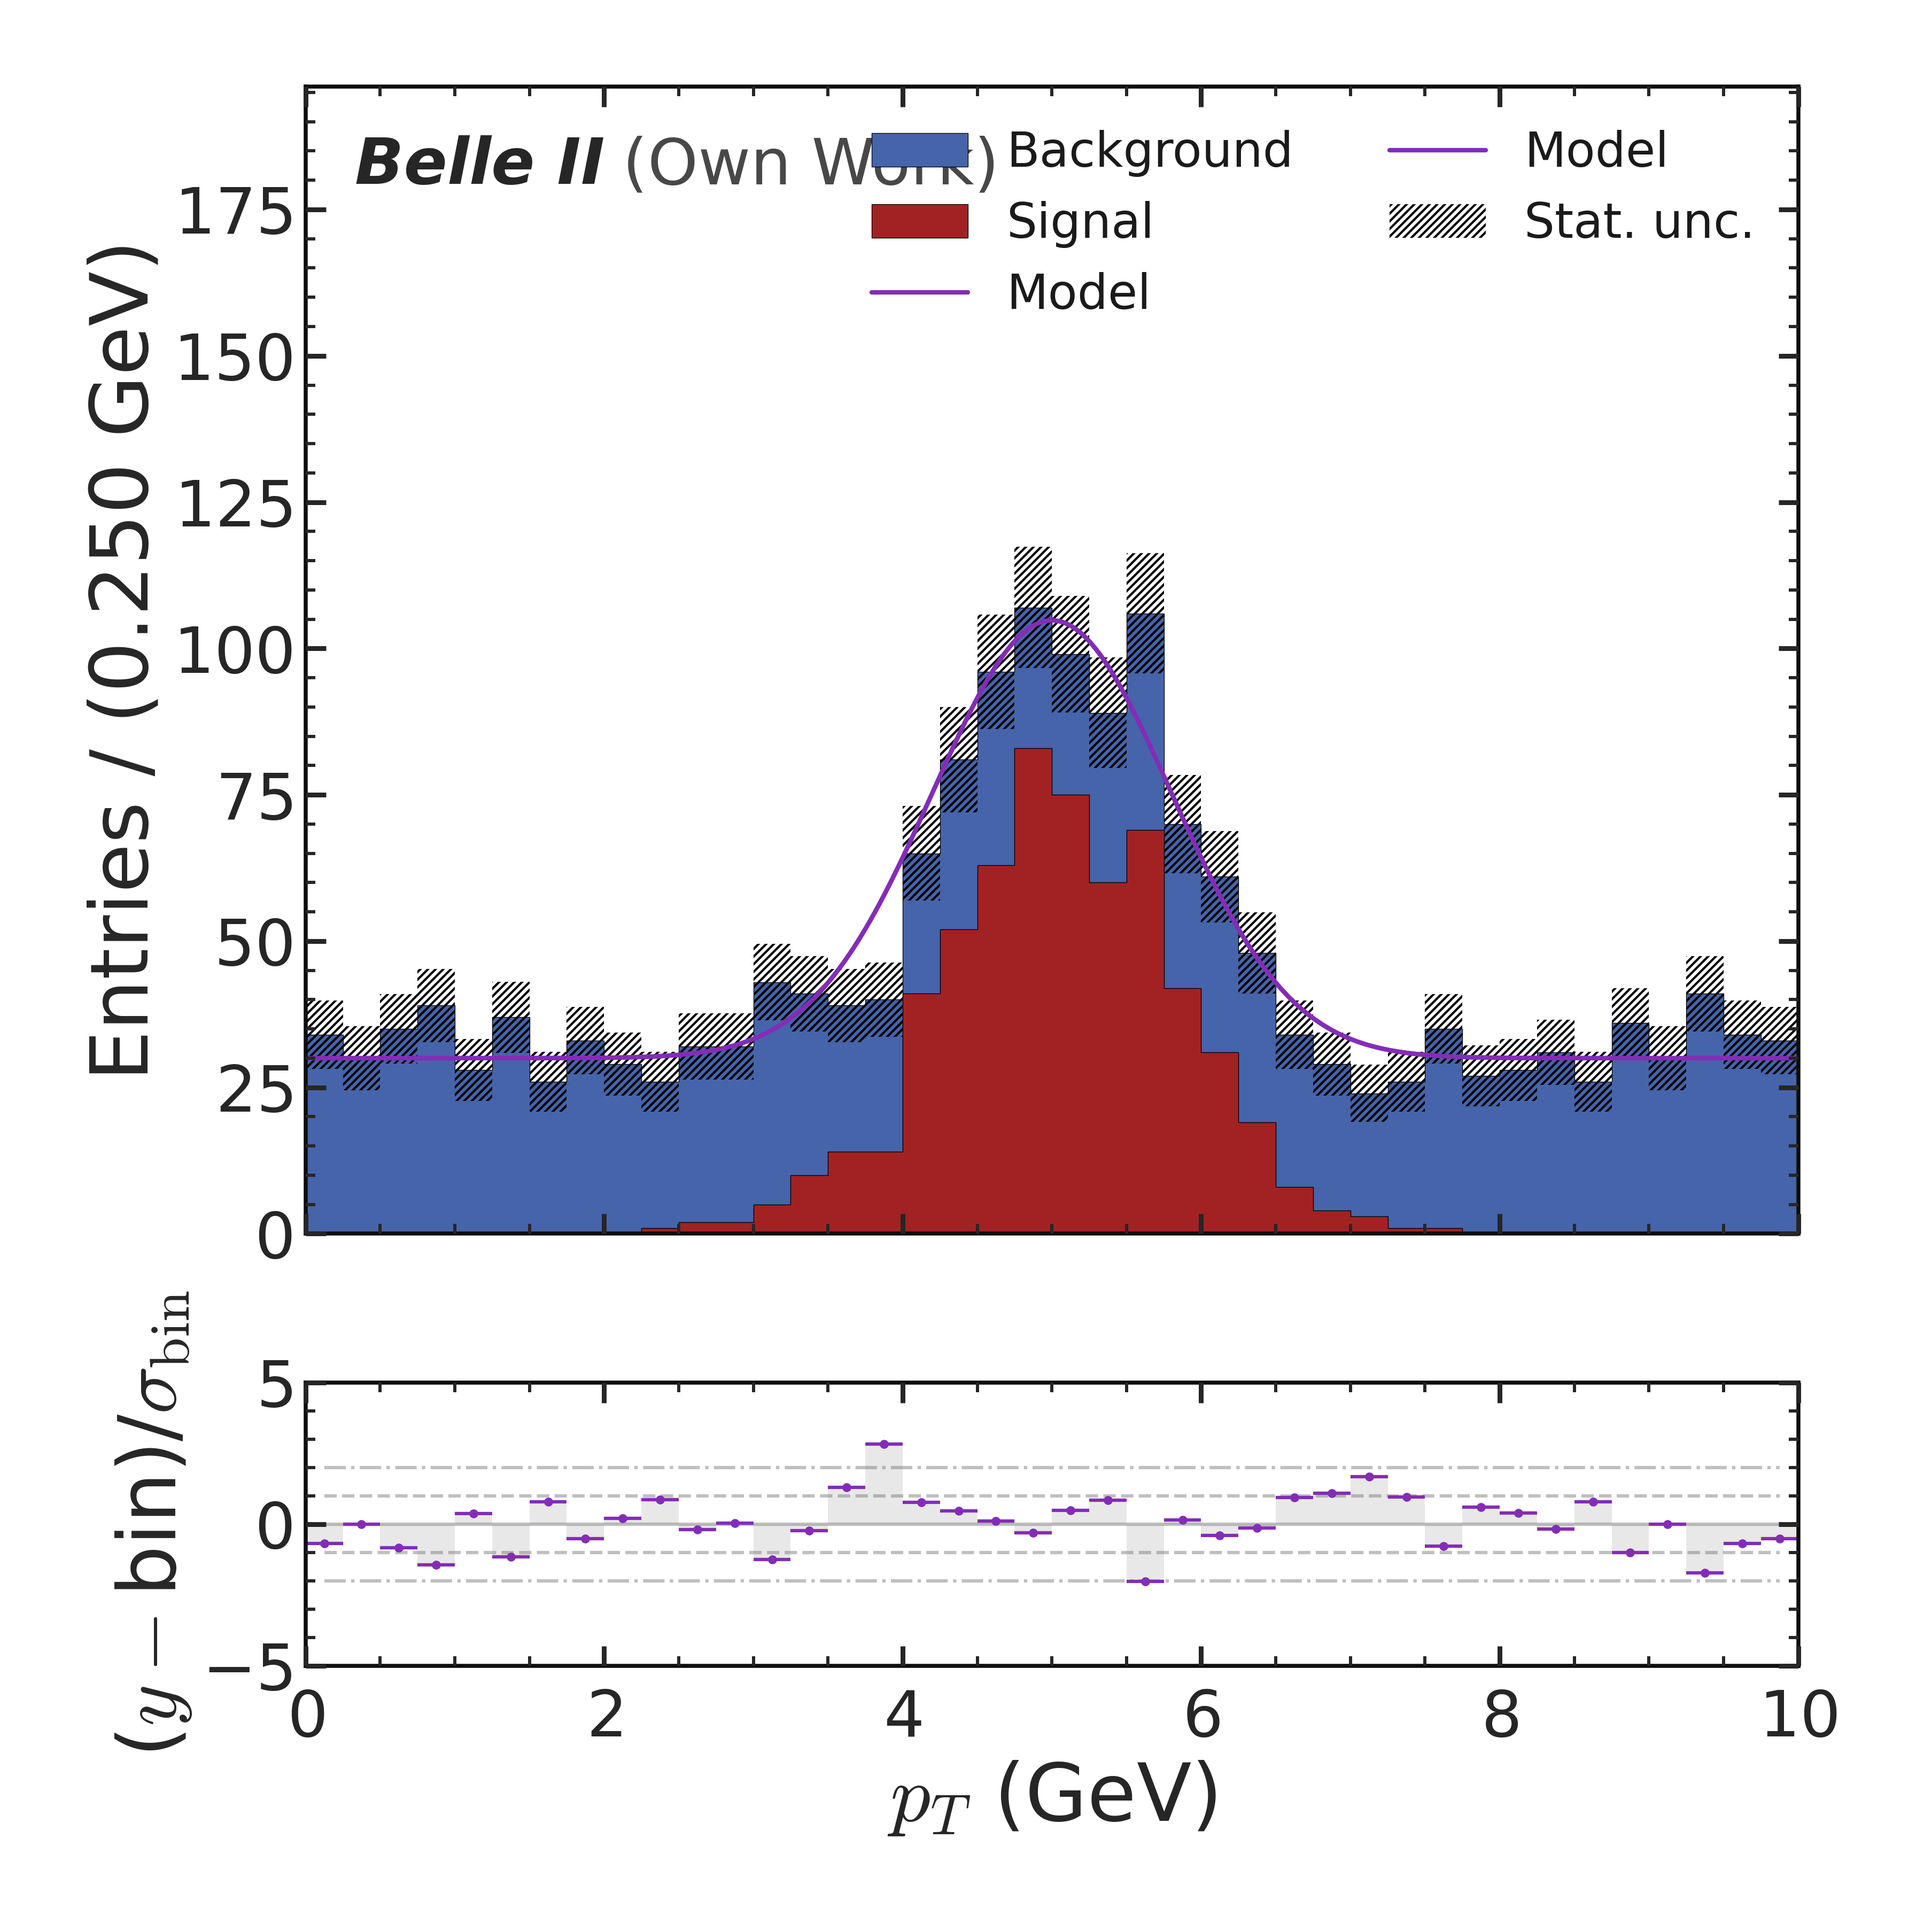
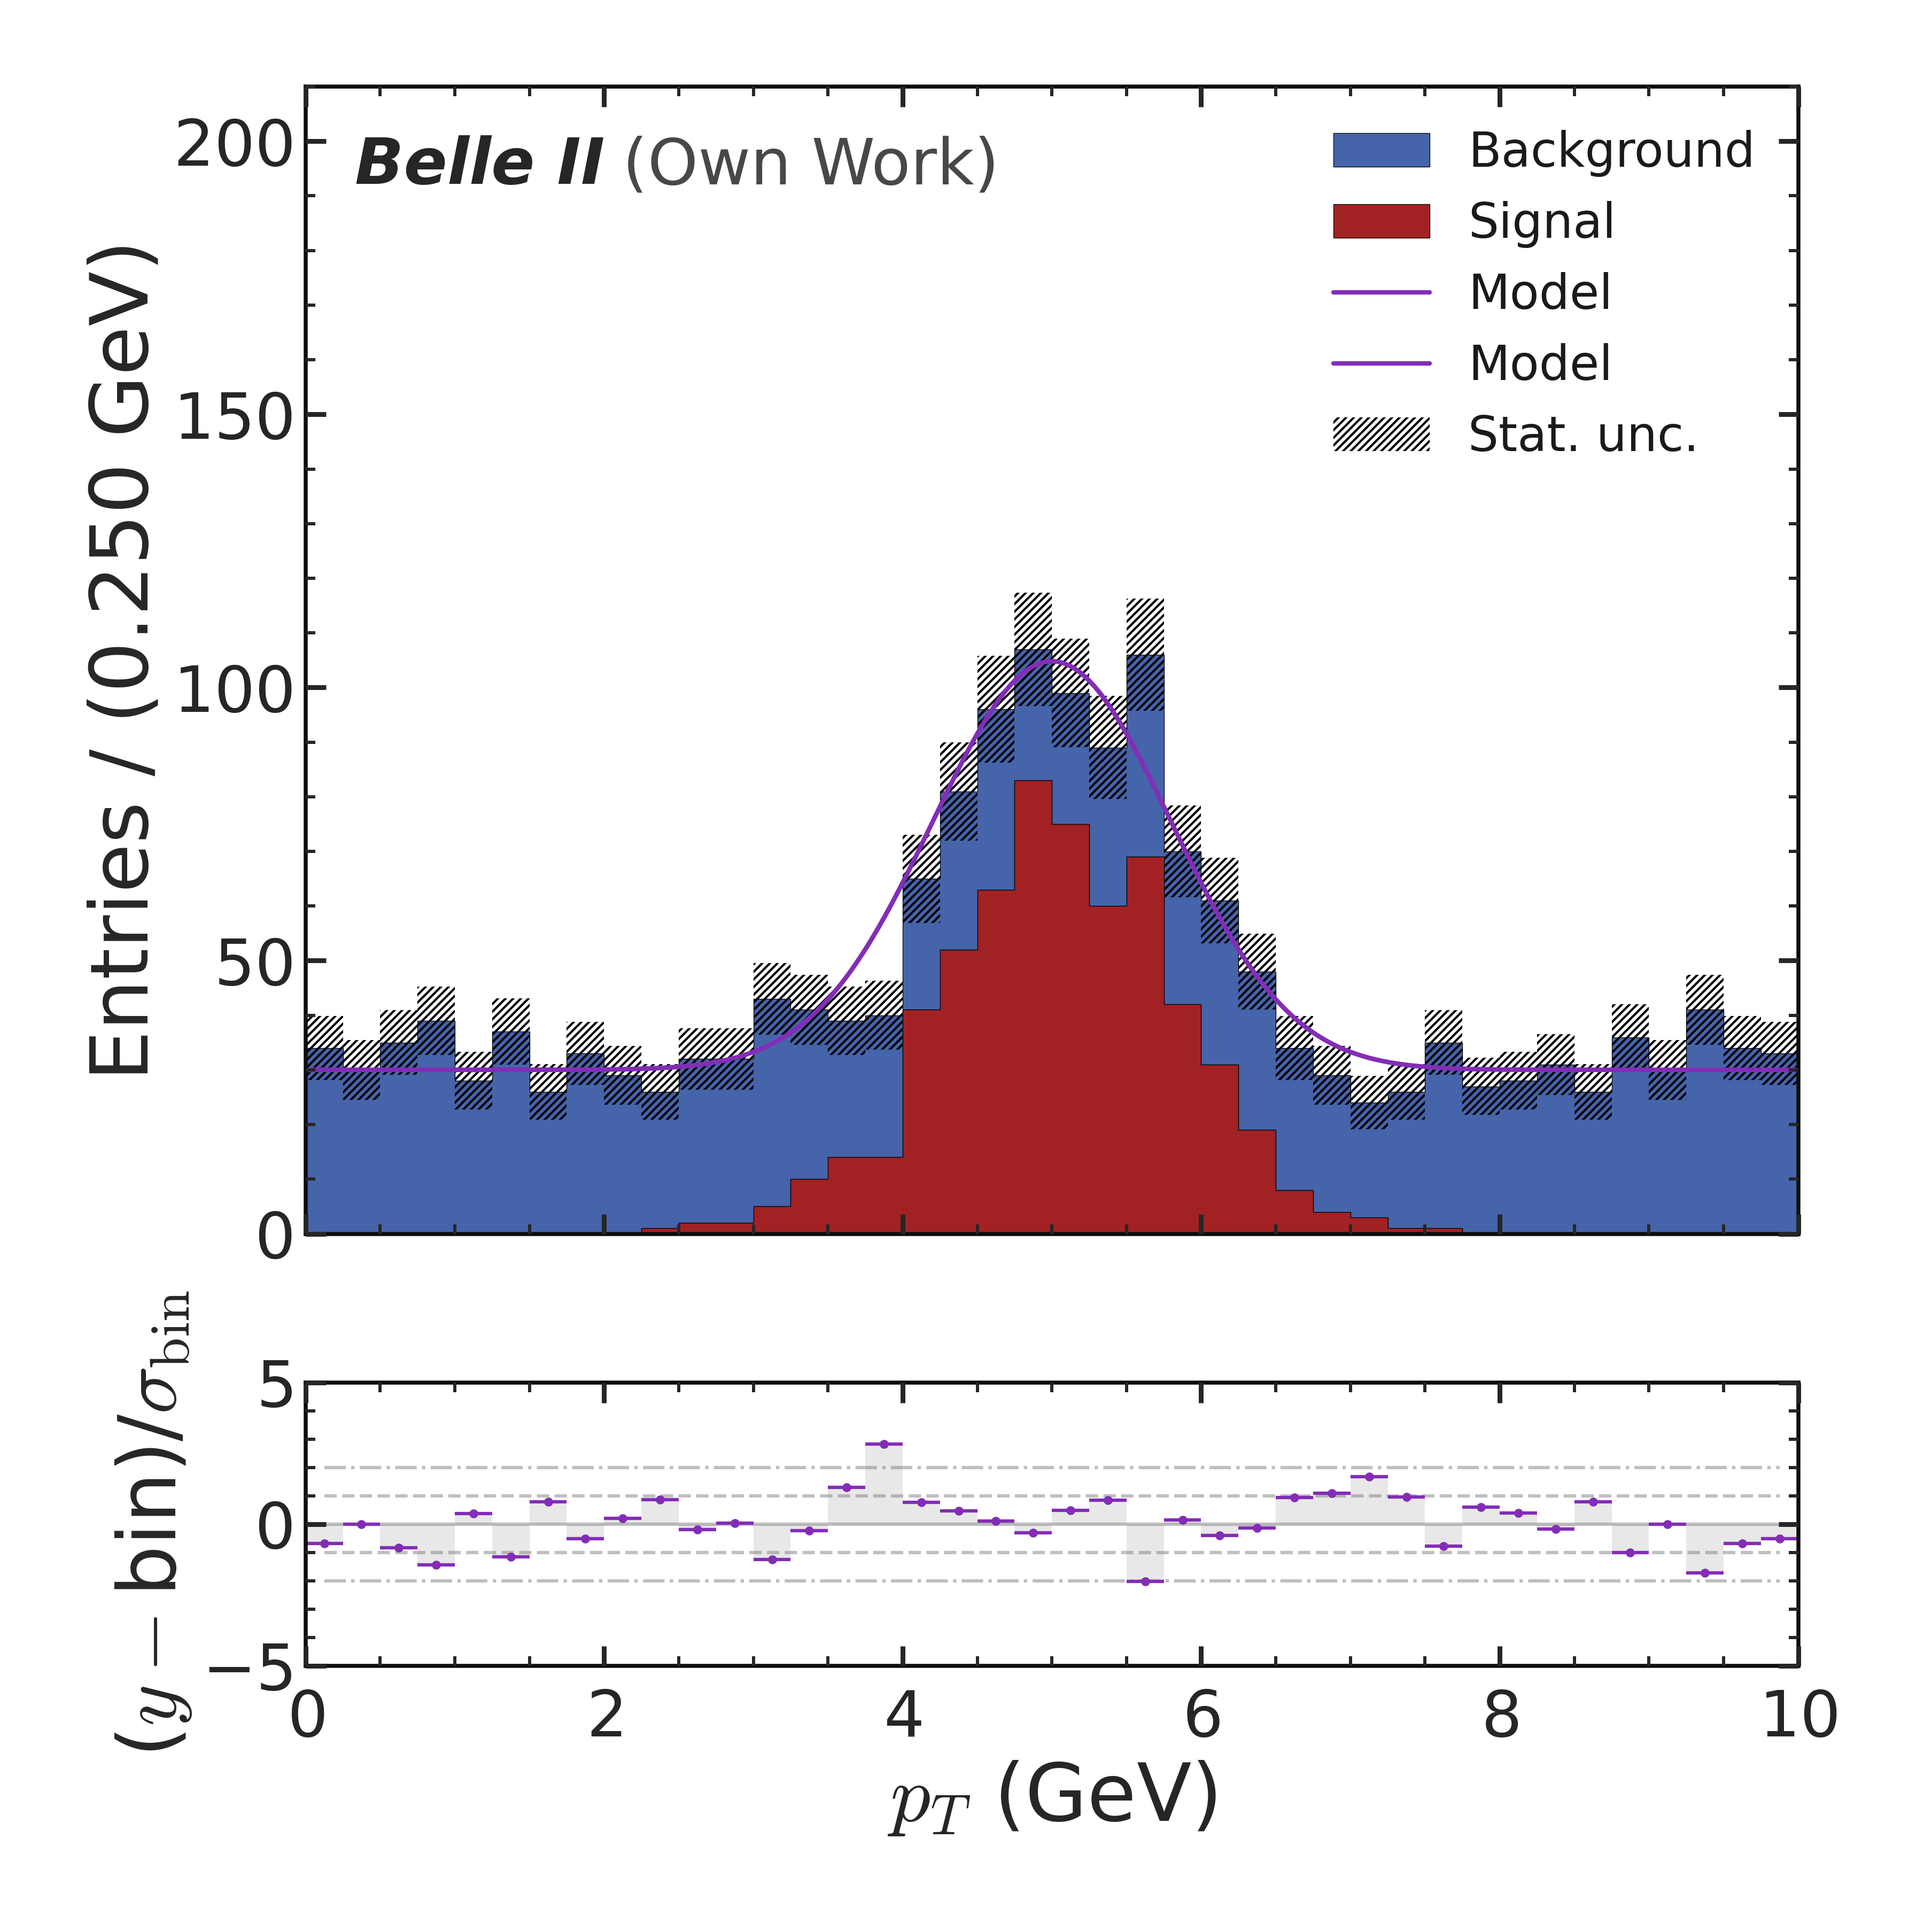
Fix final-review findings on README workflow example
- examples/workflow_demo.py: force a single-column legend anchored upper-right
  in _build_stacked_pull_plotter so it no longer overlaps the "Belle II (Own
  Work)" watermark in 02-stacked-pull.png / 03-kit-colors.png (setting only
  legend_loc wasn't enough -- the default 2-column legend was wide enough to
  span the axes regardless of anchor); document why background[1] is used
  over background[0].
- examples/README.md: fix intro sentence contradicting the documented
  docs/img/workflow/ exception for workflow_demo.py.
- README.md: note that step 2 also pins signal to the reserved palette red,
  explaining the color change from step 1's palette-backfilled blue.
- Regenerate docs/img/workflow/02-stacked-pull.png and 03-kit-colors.png with
  the fixed legend placement.

diff --git a/examples/workflow_demo.py b/examples/workflow_demo.py
@@ -68,6 +68,9 @@ def _build_stacked_pull_plotter(data: dict[str, np.ndarray]) -> HistogramPlotter
     hist.binning = np.linspace(X_MIN, X_MAX, 41)
     hist.add_entry(HistogramEntry(name="signal", latex_name="Signal", array=data["signal"], color=palette.signal))
     hist.add_entry(
+        # background[1] (not [0]): amber for Petroff, blue for KIT -- both contrast
+        # cleanly against the reserved signal red. background[0] is KIT's green,
+        # which (unlike Petroff's blue at [0]) reads muddier against signal red here.
         HistogramEntry(
             name="background", latex_name="Background", array=data["background"], color=palette.background[1]
         )
@@ -80,6 +83,14 @@ def _build_stacked_pull_plotter(data: dict[str, np.ndarray]) -> HistogramPlotter
     variable = HistogramVariable("$p_T$", "GeV")
     plotter = HistogramPlotter(histplot, variable)
     plotter.watermark = "(Own Work)"
+    # "best" (the default) places the legend over the empty upper-left corner of the
+    # axes -- which is exactly where the watermark text lives, so it occludes
+    # "(Own Work)". With the default legend_ncol=4 the 5 legend entries here wrap
+    # into a 2-column box wide enough to span the axes regardless of anchor, so also
+    # force a single narrow column (legend_ncol >= len(labels)) before anchoring it
+    # to the upper-right corner, away from the watermark.
+    plotter.legend_ncol = 5
+    plotter.legend_loc = "upper right"
 
     plotter.add_function(_model, binwidth=True, label="Model", color=PetroffColors.purple, lw=2)
     plotter.add_pull(_model, binwidth=True, color=PetroffColors.purple, label="Model", lw=2, max_sigma=5.0)

diff --git a/README.md b/README.md
@@ -77,7 +77,7 @@ The convenience layer handles this in one call: `plot_histogram(entries, bins, s
 
 A pull panel needs the full engine, not the convenience layer, so this escalates to
 `Histogram`/`HistogramEntry` → `HistogramPlot` → `HistogramPlotter`, with `add_function` and
-`add_pull` for the model overlay and pull panel.
+`add_pull` for the model overlay and pull panel, and pins signal to the reserved palette red.
 
 > Switch to KIT colors
 

diff --git a/examples/README.md b/examples/README.md
@@ -1,7 +1,7 @@
 # AFPlotter examples
 
 Runnable scripts using synthetic data (no real analysis data required).
-Each writes a PNG to `examples/output/` (gitignored).
+Each writes a PNG to `examples/output/` (gitignored), except where noted below.
 
 - `histogram_with_pull.py` — stacked histogram + model curve + pull panel,
   mirroring a typical fit-result plot.
